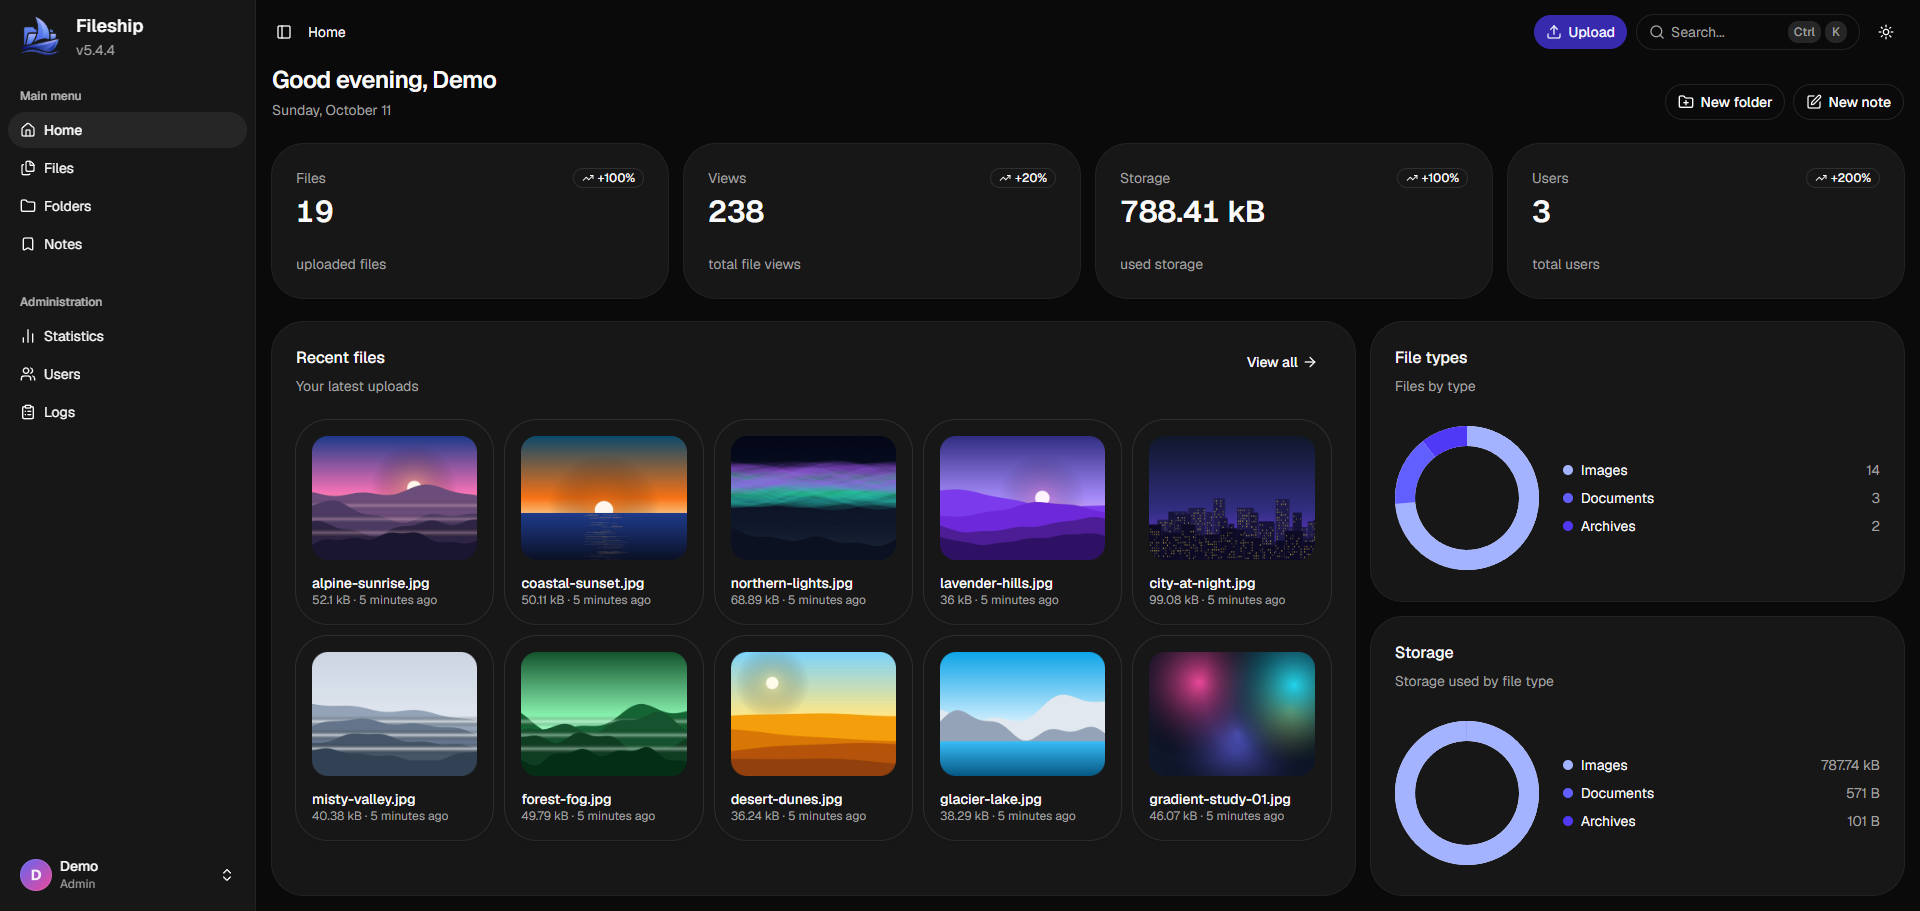
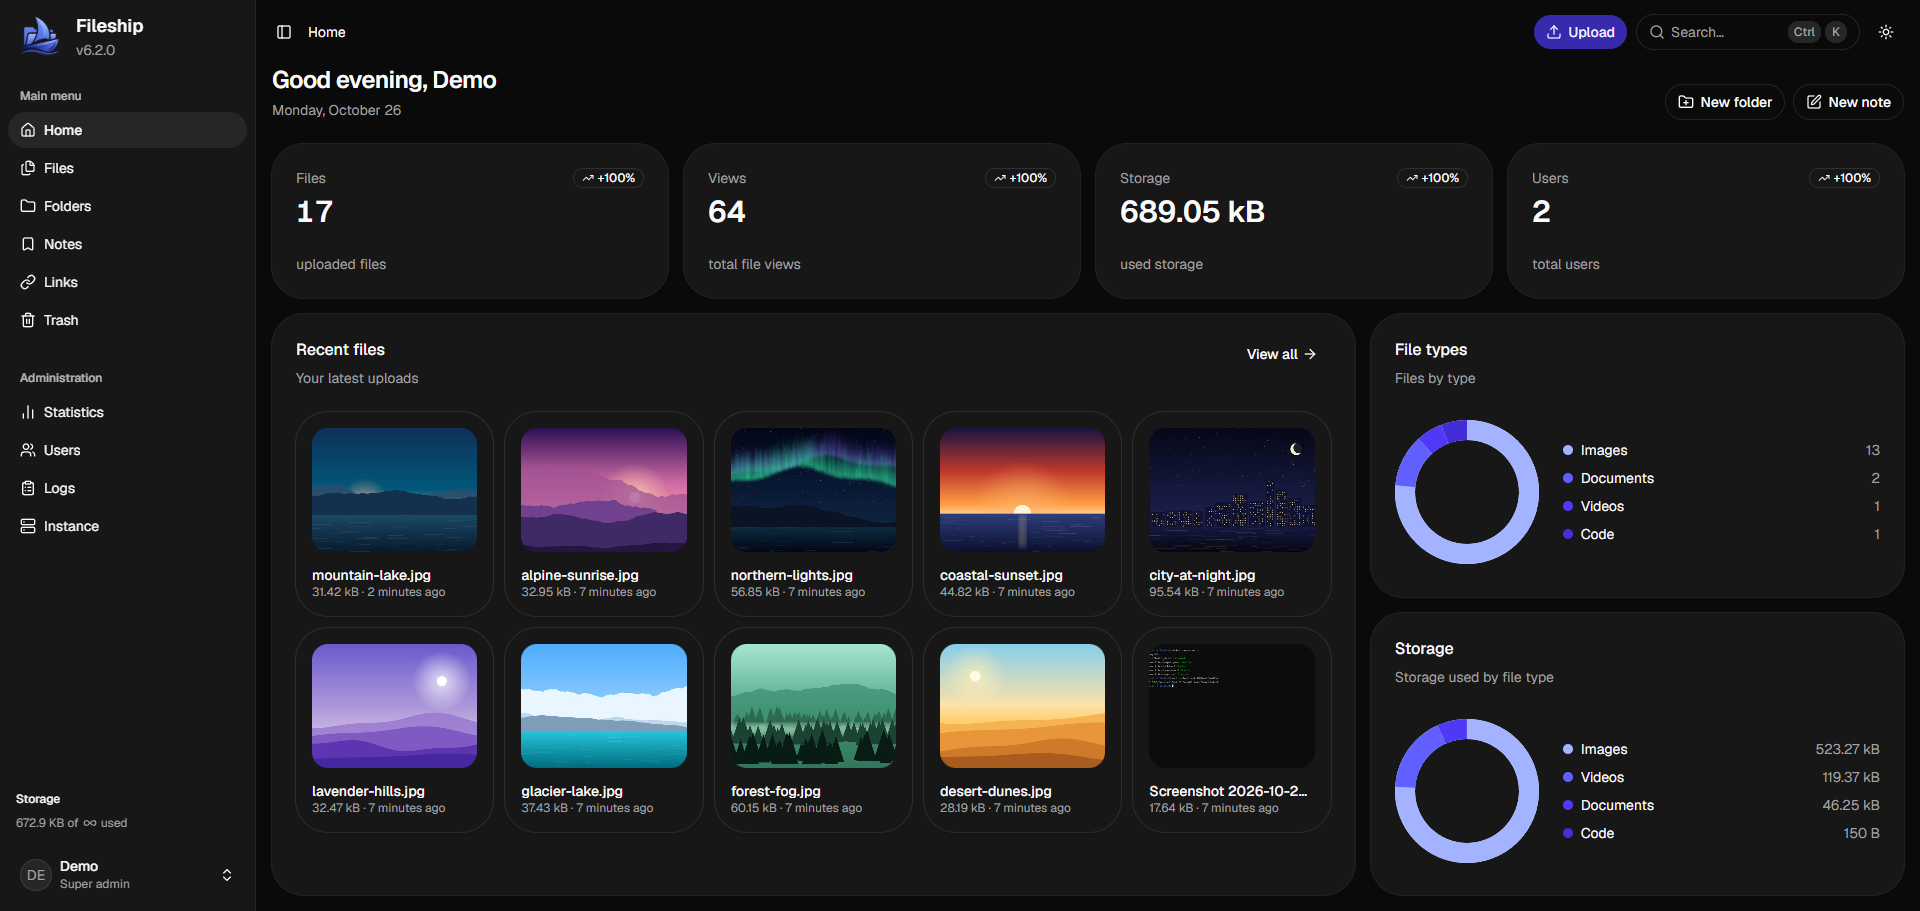
docs: add a demo GIF, a comparison with other file hosts and a social preview
The README opens with a short recording of a drag and drop upload, smart
search and the AI caption, compares Fileship with Zipline, XBackBone and
Chibisafe, and shows fresh screenshots of 6.2. The social preview image is
for the repository settings.

diff --git a/README.md b/README.md
@@ -4,7 +4,7 @@
   </a>
 
   <p align="center">
-    An open-source, self-hosted file and media management platform.
+    Your own ShareX server and file cloud: a native Windows app, File Explorer sync, AI search that runs on your server and a browser extension.
     <br />
     <br />
     <a href="https://github.com/hanzydev/fileship-desktop/releases/latest">Download for Windows</a>
@@ -17,12 +17,8 @@
   </p>
 </div>
 
-## 📸 Screenshots
-
 <p align="center">
-  <img src="apps/dashboard/public/previews/fileship-desktop.png" alt="Fileship dashboard on desktop" width="78%">
-  &nbsp;
-  <img src="apps/dashboard/public/previews/fileship-mobile.png" alt="Fileship files on mobile" width="18%">
+  <img src="docs/images/demo.gif" alt="Dropping an image on Fileship uploads it and copies its link, then smart search finds a photo from a description and shows its AI caption" width="100%">
 </p>
 
 ## 📦 Features
@@ -38,6 +34,38 @@
 - A [browser extension](docs/browser-extension.md) that uploads files, images and screenshots and shortens links, [on the Chrome Web Store](https://chromewebstore.google.com/detail/fileship/lbnlfnmlaipoflalhikladilalkoagnh) for Chrome and Edge, and built from source for Firefox
 - [Webhooks](docs/webhooks.md) for Discord, Slack and your own services
 - English, Turkish, German, French, Italian, Azerbaijani, Japanese, Korean and Simplified Chinese
+
+## 🆚 How Fileship compares
+
+|                                                | Fileship                       | [Zipline](https://github.com/diced/zipline) | [XBackBone](https://github.com/sergix44/XBackBone) | [Chibisafe](https://github.com/chibisafe/chibisafe) |
+| ---------------------------------------------- | ------------------------------ | ------------------------------------------- | -------------------------------------------------- | --------------------------------------------------- |
+| ShareX and other uploaders                     | ✅                             | ✅                                          | ✅                                                 | ✅                                                  |
+| Desktop app for capture and recording          | ✅ Windows                     | ❌                                          | ❌                                                 | ❌                                                  |
+| Your files in File Explorer                    | ✅ Fileship Harbor             | ❌                                          | ❌                                                 | ❌                                                  |
+| Browser extension                              | ✅                             | ❌                                          | ❌                                                 | ✅                                                  |
+| AI search, captions, OCR and sensitive content | ✅ on your server              | ❌                                          | ❌                                                 | ❌                                                  |
+| Short links                                    | ✅                             | ✅                                          | ❌                                                 | ✅                                                  |
+| Notes or pastes                                | ✅ Markdown                    | ✅                                          | 🟡 text uploads                                    | ✅                                                  |
+| Folders                                        | ✅ nested, shared with users   | ✅ nested                                   | ❌ tags                                            | 🟡 flat albums                                      |
+| Passwords, expiry and view limits              | ✅                             | ✅                                          | ❌                                                 | 🟡 album links expire                               |
+| Storage                                        | Local, S3, SFTP, FTP           | Local, S3                                   | Local, S3, FTP, Dropbox, Google Cloud              | Local, S3                                           |
+| Two-factor authentication and passkeys         | ✅                             | ✅                                          | ❌                                                 | ❌                                                  |
+| Single sign-on                                 | ❌                             | ✅ OAuth, OIDC                              | ✅ LDAP                                            | ❌                                                  |
+| Webhooks                                       | ✅ Discord, Slack, signed JSON | ✅ Discord, HTTP                            | ❌                                                 | ❌                                                  |
+| Account backups you can restore, on a schedule | ✅                             | 🟡 export                                   | 🟡 export                                          | ❌                                                  |
+| Updates from the dashboard                     | ✅ zero downtime               | ❌                                          | 🟡 with downtime                                   | ❌                                                  |
+| Languages                                      | 9                              | 12                                          | 31, some partial                                   | 1                                                   |
+| License                                        | MIT                            | MIT                                         | AGPL-3.0                                           | MIT                                                 |
+
+Compared with Zipline 4.8, XBackBone 3.8 and Chibisafe 6.7 in October 2026. Something out of date? [Open an issue](https://github.com/hanzydev/Fileship/issues/new/choose) and it will be fixed.
+
+## 📸 Screenshots
+
+<p align="center">
+  <img src="apps/dashboard/public/previews/fileship-desktop.png" alt="Fileship dashboard on desktop" width="78%">
+  &nbsp;
+  <img src="apps/dashboard/public/previews/fileship-mobile.png" alt="Fileship files on mobile" width="18%">
+</p>
 
 ## 🖥 Fileship for Windows
 

diff --git a/MEMORY.md b/MEMORY.md
@@ -144,3 +144,5 @@ Project knowledge that is not obvious from the code: decisions, release facts an
 - Parallel agents in one checkout must own separate files, stage only their own paths (`git add <paths>`, never `-A`) and re-read a file before editing it. Files that many tasks touch (`overlay.vue`, `useAnnotator.ts`, `nuxt.config.ts`) belong to one agent at a time.
 - Keep AGENTS.md accurate: when a change alters a documented behaviour, update the paragraph in the same commit.
 - Keep the README short on purpose. It once grew to about 450 lines and nobody read it; user-facing details belong in `docs/`.
+- The README's comparison table compares released versions only (XBackBone 4.x was still unreleased in October 2026) and says when it was checked. Check the other projects' source and docs again before changing a cell, and keep the rows where Fileship loses (single sign-on, languages): a one-sided table gets called out.
+- The demo GIF, the screenshots in `apps/dashboard/public/previews` and `docs/images/social-preview.png` come from a production build on a scratch database, filled with generated landscape images and fake screenshots (never real screens or files). The GIF is a DevTools screencast of headless Chrome at 1280 × 800 with a drawn cursor, turned into a GIF by ffmpeg at 15 fps with one palette and `paletteuse=dither=bayer:bayer_scale=2` (about 4 MB; Sierra dithering doubled the size). GitHub only takes the social preview from the repository settings.

diff --git a/AGENTS.md b/AGENTS.md
@@ -204,7 +204,7 @@ Reuse these instead of writing new versions.
 - Errors: `createError({ status, statusText?, message, data? })`. `statusCode` and `statusMessage` are deprecated.
 - Long lists use virtual scroll with `reachEnd`, never pagination controls.
 - Commits: conventional commits (`feat`, `fix(ui)`, `fix(api)`, `chore`, `docs`, ...), one topic per commit.
-- User documentation lives in `docs/` (installation, configuration, updating, upgrading, AI, the Windows app, the browser extension, telemetry). `README.md` stays short: what Fileship is, the features in one line each, a quick start and links into `docs/`. Put details in the matching `docs/` page, not in the README.
+- User documentation lives in `docs/` (installation, configuration, updating, upgrading, AI, the Windows app, the browser extension, telemetry). `README.md` stays short: what Fileship is, the demo GIF, the features in one line each, the comparison with other file hosts, a quick start and links into `docs/`. Put details in the matching `docs/` page, not in the README.
 
 ## UI rules
 
